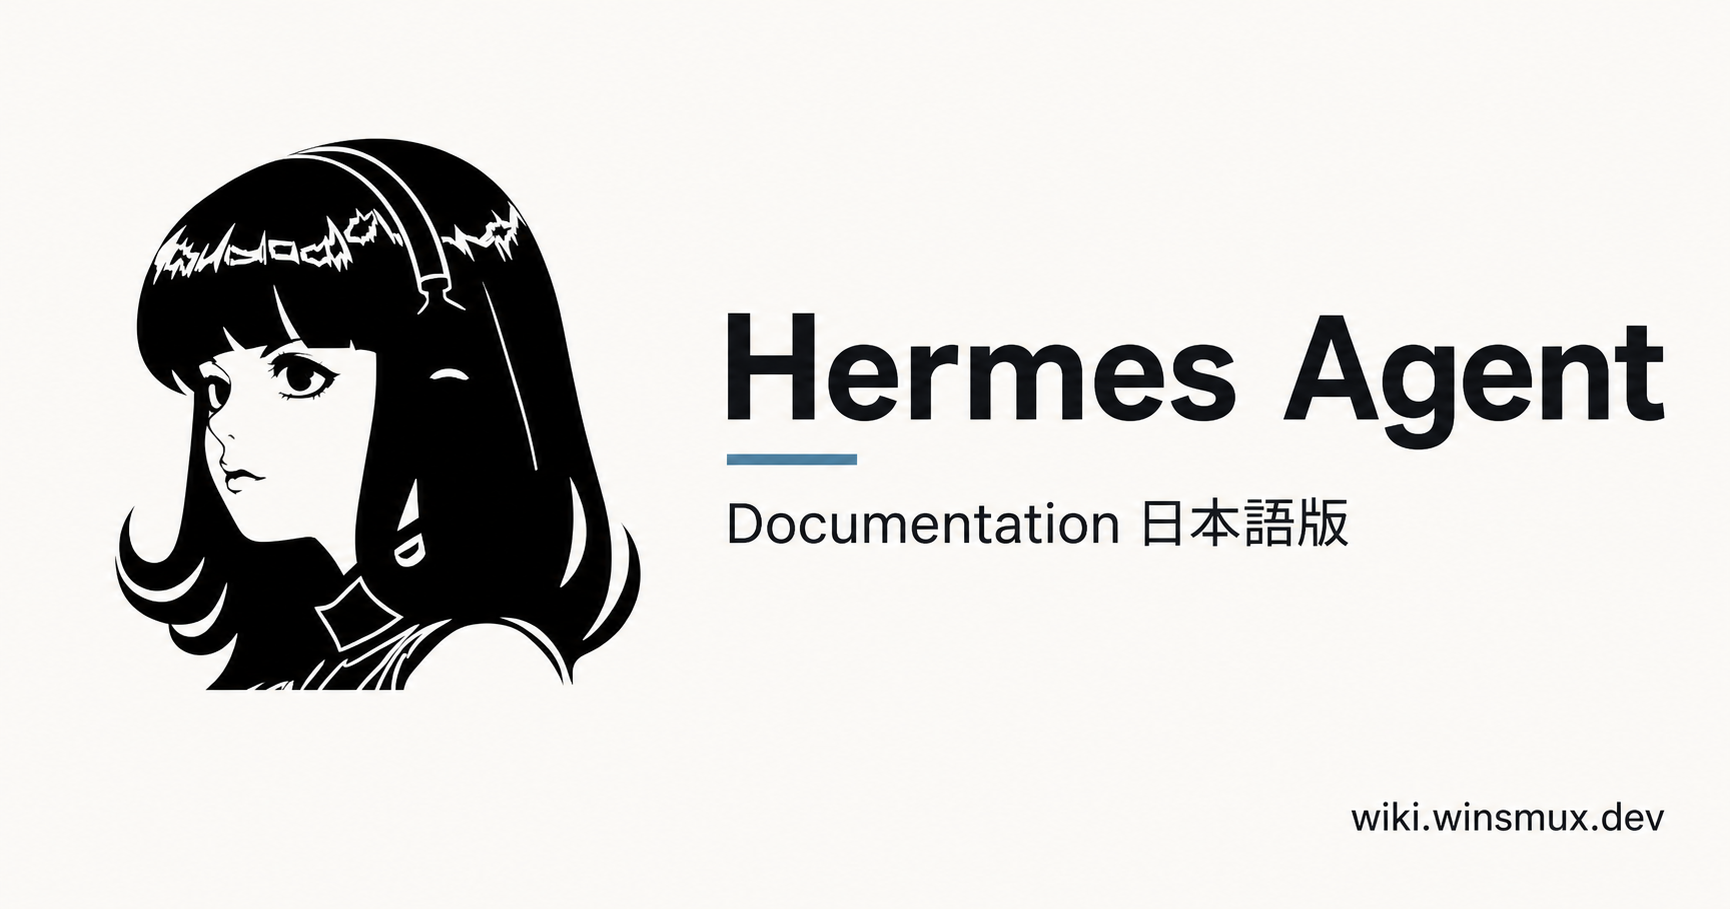
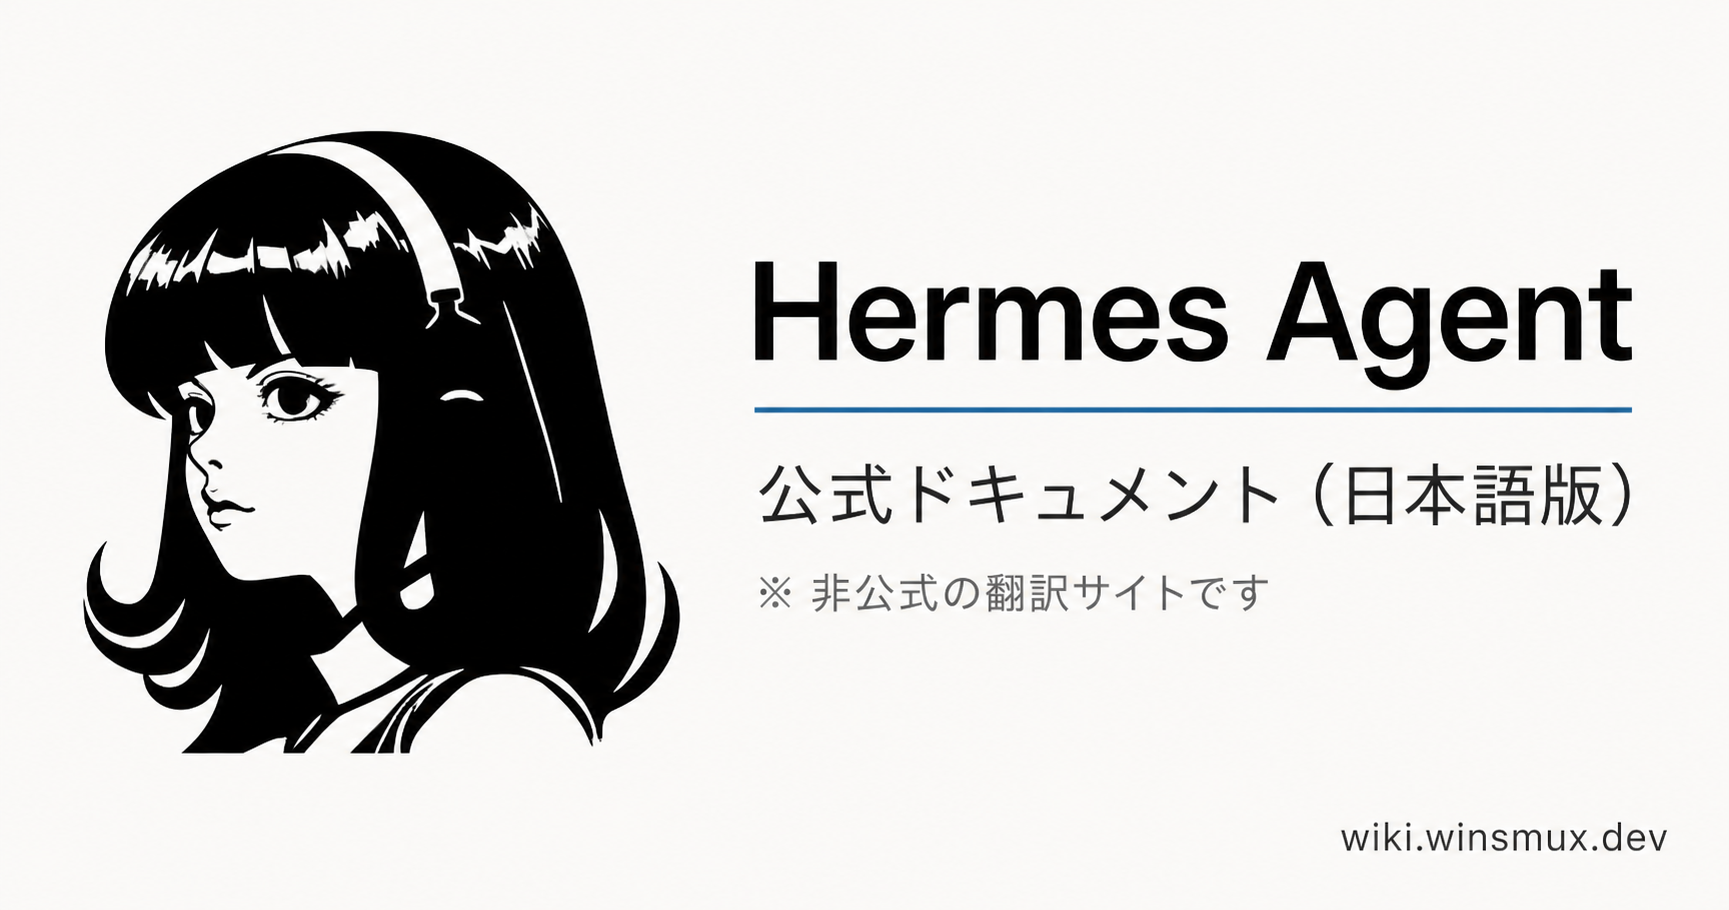
feat: unofficial-mirror notice site-wide + OG card v2
Subtitle now reads 公式ドキュメント（日本語版） with an explicit
非公式の翻訳サイトです note on the card, the top page, every page's
source footer, and the README.

Changed region(s): [[0.406, 0.2772, 0.9682, 0.6777], [0.0312, 0.1232, 0.406, 0.8317], [0.7808, 0.8933, 0.9682, 0.9549]]

diff --git a/README.md b/README.md
@@ -6,7 +6,7 @@ Japanese mirror of the official Hermes Agent docs. Same structure, same commands
 
 ## これは何
 
-公式 [Hermes Agent docs](https://hermes-agent.nousresearch.com/docs/) の全ページ（本文 200+ / skill 196、計 400 ページ超）を日本語で読めるサイトです。
+公式 [Hermes Agent docs](https://hermes-agent.nousresearch.com/docs/) の全ページ（本文 200+ / skill 196、計 400 ページ超）を日本語で読めるサイトです。NousResearch とは無関係の**非公式**プロジェクトです。
 
 - **公式完全準拠**: ページ構成・見出し・コードブロック・リンクは公式とバイト一致で揃えています（機械照合）。独自の手順は作りません。正本は常に公式 docs で、各ページの末尾からたどれます
 - **毎日追随**: 上流の差分を日次で検出し、変わったページだけ再翻訳して公開します

diff --git a/public/hermes/raw/index.md b/public/hermes/raw/index.md
@@ -10,7 +10,7 @@ raw: /hermes/raw/index.md
 
 # Hermes Agent
 
-Hermes Agent Documentation の全ページを日本語にしています。構成も手順も公式のまま、日本語に翻訳しています。正本は常に [Hermes Agent Documentation](https://hermes-agent.nousresearch.com/docs/) です。
+Hermes Agent Documentation の全ページを日本語にしています。構成も手順も公式のまま、日本語に翻訳しています。本サイトは NousResearch とは無関係の**非公式**の翻訳サイトで、正本は常に [Hermes Agent Documentation](https://hermes-agent.nousresearch.com/docs/) です。
 
 ## メッセージアプリから使う
 

diff --git a/src/raw/index.md b/src/raw/index.md
@@ -10,7 +10,7 @@ raw: /hermes/raw/index.md
 
 # Hermes Agent
 
-Hermes Agent Documentation の全ページを日本語にしています。構成も手順も公式のまま、日本語に翻訳しています。正本は常に [Hermes Agent Documentation](https://hermes-agent.nousresearch.com/docs/) です。
+Hermes Agent Documentation の全ページを日本語にしています。構成も手順も公式のまま、日本語に翻訳しています。本サイトは NousResearch とは無関係の**非公式**の翻訳サイトで、正本は常に [Hermes Agent Documentation](https://hermes-agent.nousresearch.com/docs/) です。
 
 ## メッセージアプリから使う
 
